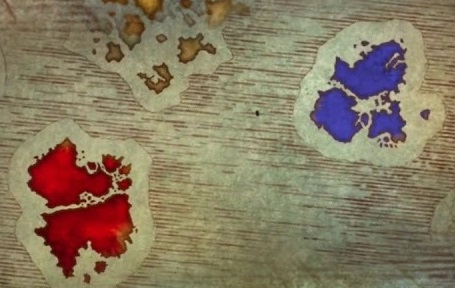
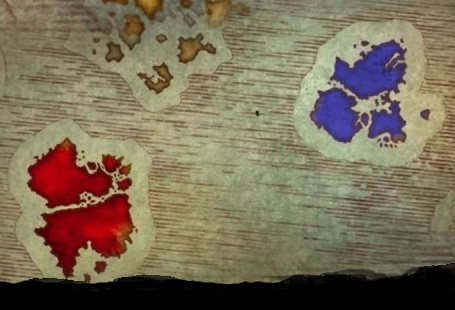
Подправил фон на мобильной версии

diff --git a/styles/main-mobile.css b/styles/main-mobile.css
@@ -30,3 +30,9 @@ body {
 .prepurch img{width:100%!important; }
 .circle {width:100%!important;}
 div.inf4 {height: auto!important ;}
+div.inf {background-size: 100%!important ;
+        background-color:black ;}
+div.inf1 {background-size: 100%!important ;
+        background-color:black ;}
+div.inf2{background-size: 100%!important ;
+        background-color:black ;}
